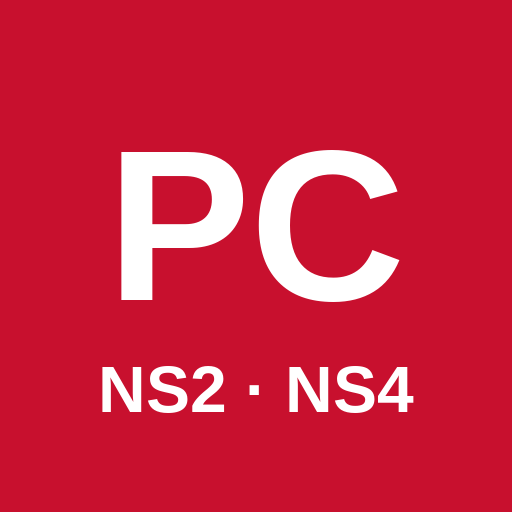
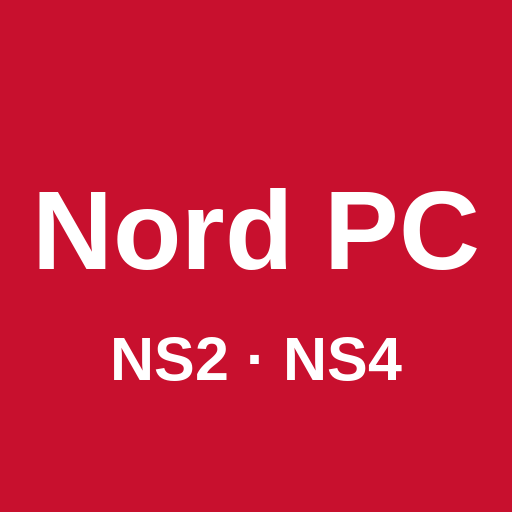
Icône Nord PC

diff --git a/sw.js b/sw.js
@@ -1,5 +1,5 @@
 // Garde la page en mémoire pour qu'elle marche sans internet.
-const CACHE = "nord-pc-v1";
+const CACHE = "nord-pc-v2";
 const FILES = ["./", "index.html", "manifest.webmanifest", "icon-192.png", "icon-512.png"];
 self.addEventListener("install", e => { e.waitUntil(caches.open(CACHE).then(c => c.addAll(FILES))); self.skipWaiting(); });
 self.addEventListener("activate", e => {
